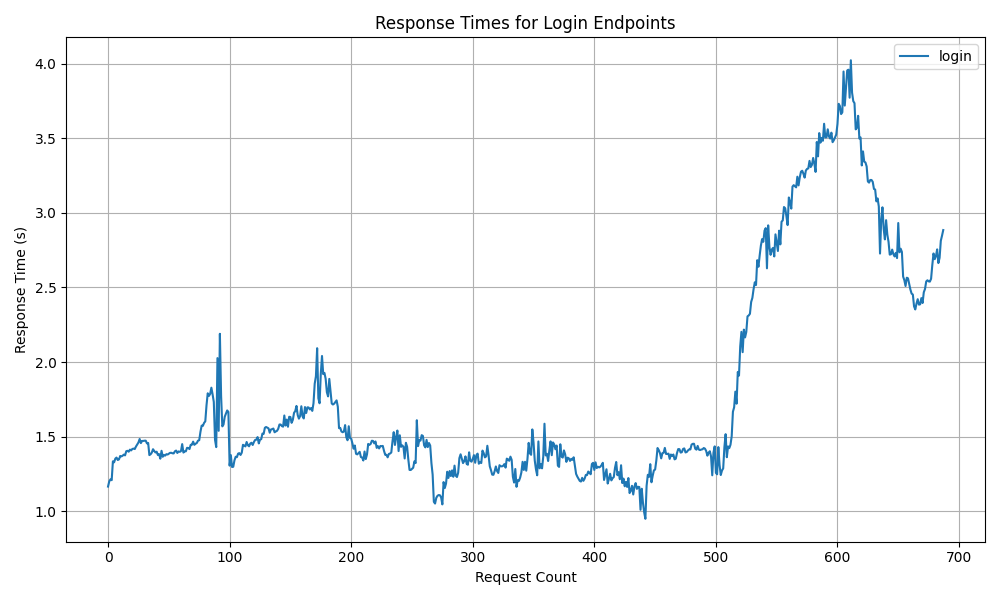
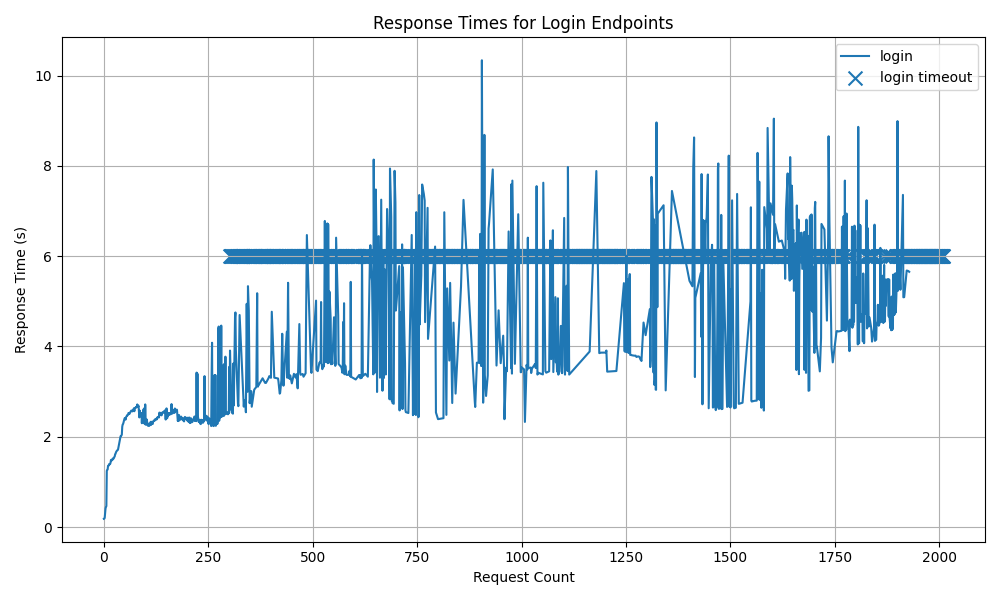
fix & UPDATE README.md

diff --git a/dos/flooding.py b/dos/flooding.py
@@ -44,13 +44,10 @@ def plot_response_times(response_times):
         normal_x = x_values[normal_indices]
         normal_y = [times[i] for i in normal_indices]
 
-        # Plot normal responses as a line
-        # plt.plot returns a list of line objects, we can use the first one to get the color
         if len(normal_x) > 0:
             line_obj = plt.plot(normal_x, normal_y, label=name)
-            line_color = line_obj[0].get_color()  # use the same color for timeouts
+            line_color = line_obj[0].get_color() 
         else:
-            # If there's no normal data at all, pick a default color
             line_color = "gray"
 
         # Plot timeouts at y=6, with the same color, using a scatter plot
@@ -78,7 +75,8 @@ def plot_response_times(response_times):
     plt.show()
 
 def main():
-    HOST = "https://127.0.0.1:5000"
+    #HOST = "https://127.0.0.1:5000"
+    HOST ="https://test.mydomain.com:5000/"
     attack_duration = 15
     threads_per_target = 1000
 
@@ -86,11 +84,11 @@ def main():
         {"name": "login",       "url": f"{HOST}/login",        "method": "POST", "data": {"username": "abc", "password": "123", "fingerprint": "{}"}},
     ]
 
-    # Dictionary to store response times for each endpoint
+    # Dictionary to store response times for endpoint
     response_times = {target["name"]: [] for target in targets}
     stop_time = time.time() + attack_duration
 
-    # Start threads for each endpoint
+    # Start threads for endpoint
     threads = []
     for target in targets:
         for _ in range(threads_per_target):

diff --git a/dos/block_snort_ip.py b/dos/block_snort_ip.py
@@ -6,7 +6,7 @@ import re
 # ------------ Configuration ------------
 
 ALERT_LOG = "/var/log/snort/alert"
-BLOCK_DURATION = 600  # secs
+BLOCK_DURATION = 300  # secs
 
 # keywords to match Snort alerts (msg field)
 TRIGGER_KEYWORDS = [
@@ -22,12 +22,22 @@ BLOCKED_IPS = set()
 # extract IP from Snort log
 IP_PATTERN = re.compile(r"\{TCP\}\s+(\d+\.\d+\.\d+\.\d+):\d+\s+->")
 
+# For tracking block timing
+ip_first_seen = {}
+ip_blocked_at = {}
+
 # ------------ IP Blocking Logic ------------
 
 def block_ip(ip):
     """block ip and unblock it after BLOCK_DURATION seconds"""
     if ip in BLOCKED_IPS:
         return
+    now = time.time()
+    if ip not in ip_first_seen:
+        ip_first_seen[ip] = now  # mark first time this IP appears in alert
+    ip_blocked_at[ip] = now
+    blocked_after = now - ip_first_seen[ip]
+
 
     # check if iptables rule already exists
     check = subprocess.run(
@@ -40,6 +50,7 @@ def block_ip(ip):
         print(f"Blocking IP: {ip}")
         subprocess.run(["iptables", "-A", "INPUT", "-s", ip, "-j", "DROP"])
 
+    print(f"[INFO] IP {ip} blocked after {blocked_after:.2f} seconds")
     BLOCKED_IPS.add(ip)
 
     # unblock IP after BLOCK_DURATION seconds

diff --git a/dos/RAEDME.md b/dos/RAEDME.md
@@ -1,0 +1,86 @@
+# DoS Attack & Defence Guide
+
+This document provides instructions to perform **HTTP Flood** and **SYN Flood** attacks, and defence.
+
+## 🖥 Environment Setup
+- Launch both **Kali Linux** (attacker) and **Ubuntu** (defender) virtual machines.
+- Set the network adapter for both VMs to **Bridge Adapter**.
+- Install Snort.
+-  'cd backend'
+- 'python3 app.py'
+
+
+## Step 2: Launch DoS Attacks
+### 1. HTTP Flood Attack
+```bash
+cd dos
+```
+```bash
+python3 flooding.py
+```
+
+Use `Ctrl + C` to stop the attack.
+
+### 2. SYN Flood Attack (On the **Kali** machine)
+First, get the IP address of the Ubuntu server:
+
+```bash
+ip a
+```
+
+Assume the IP is `172.20.10.9`. Then run:
+
+```bash
+sudo hping3 -S --flood -p 5000 172.20.10.9
+```
+
+Use `Ctrl + C` to stop the attack.
+
+## Step 3: Configure Snort Detection Rules
+On the **Ubuntu** machine, edit the local Snort rule file:
+
+```bash
+sudo nano /etc/snort/rules/local.rules
+```
+
+Add the following rules:
+
+```snort
+# Detect SYN Flood Attack (within 3 seconds receive over 20 SYN packets)
+alert tcp any any -> $HOME_NET 5000 (flags:S; threshold:type threshold, track by_src, count 20, seconds 3; msg:"SYN Flood Detected"; sid:1000001;)
+
+# Detect HTTP GET Flood Attack (within 10 seconds receive over 100 GET from same IP)
+alert tcp any any -> $HOME_NET 5000 (msg:"HTTP GET Flood Detected"; flow:to_server,established; content:"GET"; http_method; detection_filter:track by_src, count 100, seconds 10; sid:1000002;)
+
+# Detect HTTP POST Flood (within 10 seconds receive over 100 POST requests)
+alert tcp any any -> $HOME_NET 5000 (msg:"HTTP POST Flood Detected"; flow:to_server,established; content:"POST"; http_method; detection_filter:track by_src, count 100, seconds 10; sid:1000003;)
+Save and exit.
+```
+Save and exit the file.
+
+
+
+## Step 3: Start Snort and Monitor Alerts
+
+Run Snort (replace `enp0s3` with your actual network interface):
+
+```bash
+sudo snort -A fast -q -i enp0s3 -c /etc/snort/snort.conf
+```
+
+To monitor alerts in real time (optional):
+
+```bash
+sudo tail -f /var/log/snort/alert
+```
+
+## Step 4: Run the Auto-Blocking Script
+
+In another terminal on **Ubuntu**, run the blocking script:
+
+```bash
+sudo python3 block_snort_ip.py
+```
+
+## Step 5: Re-Test the Attack and Observe the Defence
+Then rerun the SYN Flood attack on **Kali** to test the defence.
